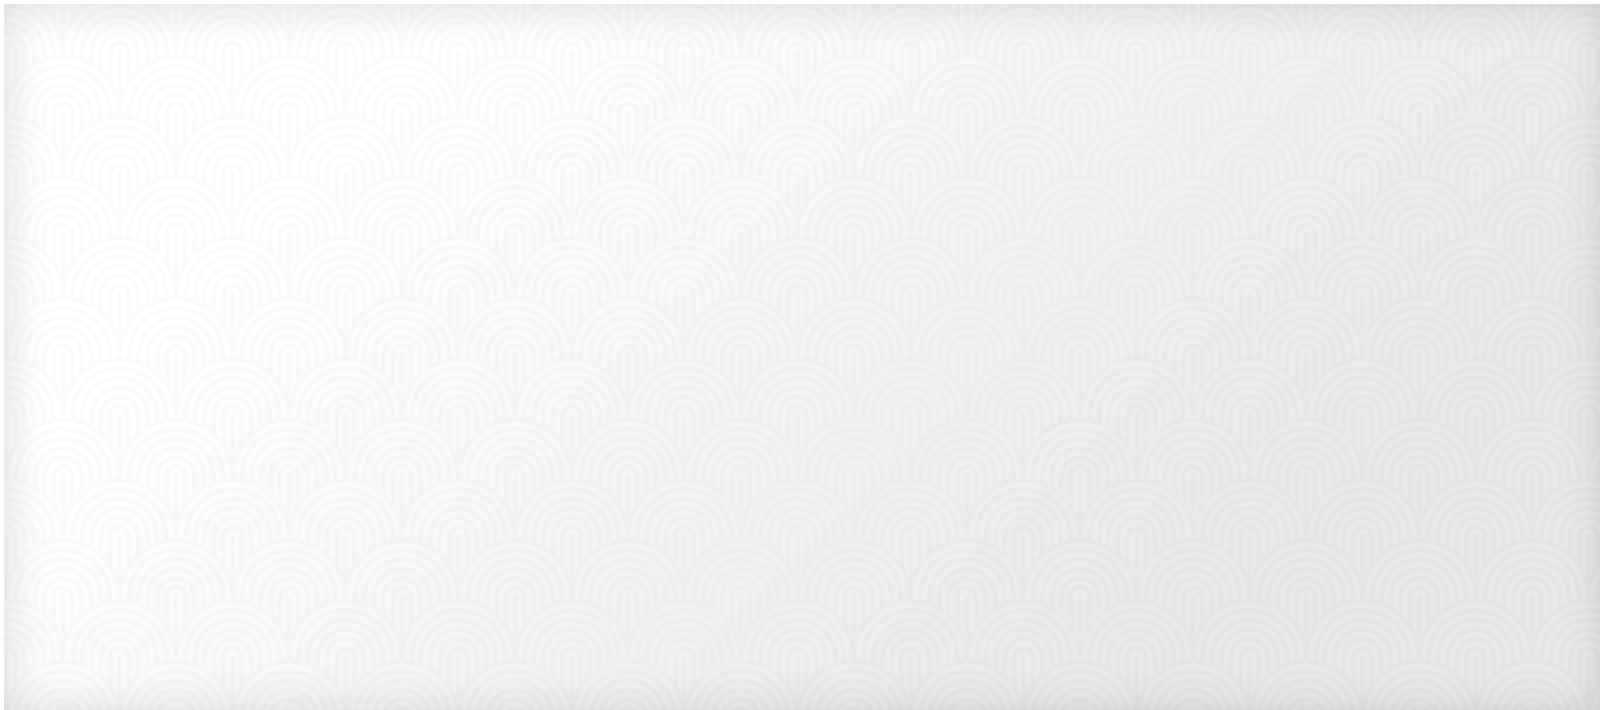
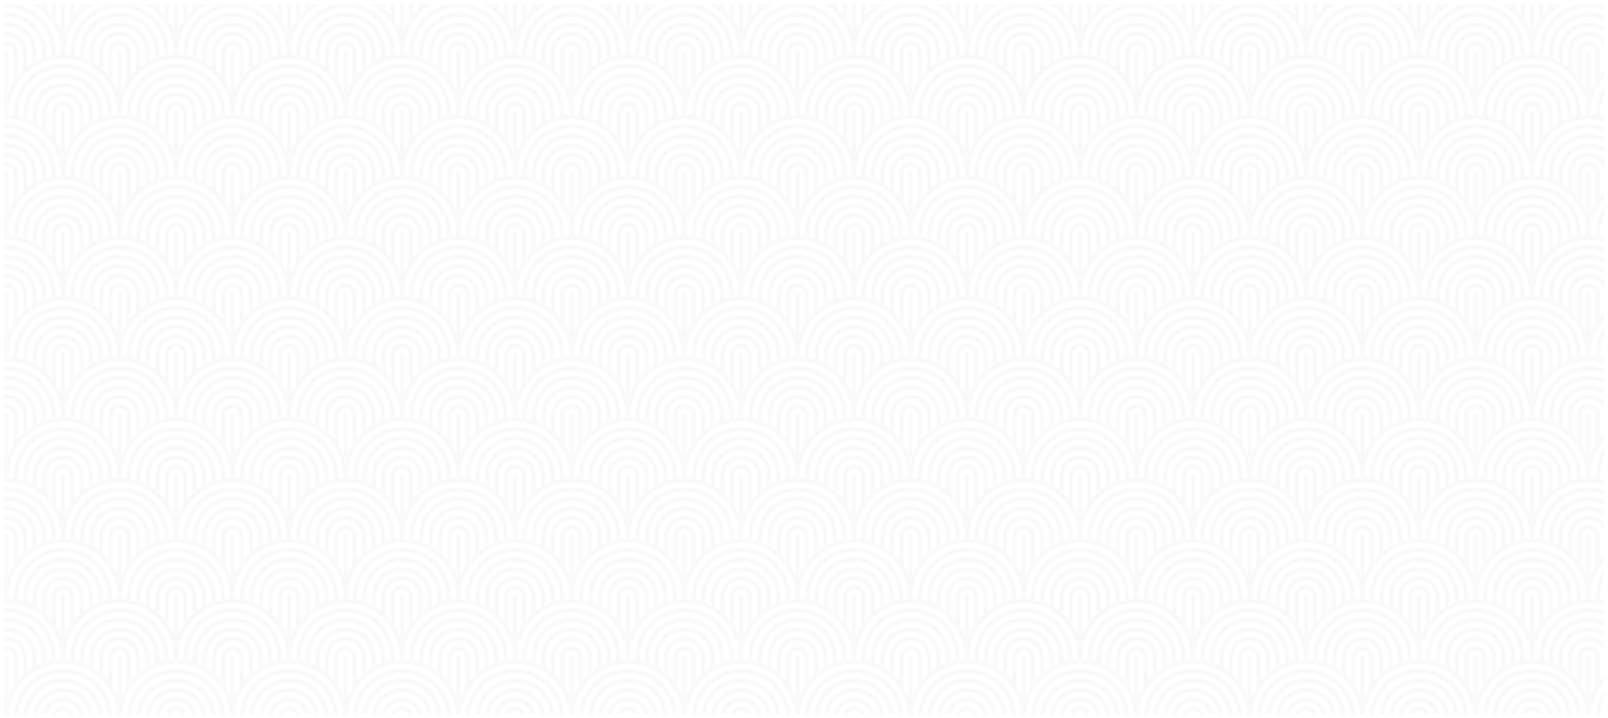
Section reservations

Changed region(s): [[0.125, 0.0, 1.0, 1.0], [0.0, 0.9915, 0.0312, 1.0]]

diff --git a/styles.css b/styles.css
@@ -77,3 +77,146 @@ body {
   float: right;
 }
 
+#reservations {
+  background-color: #f3f5f5;
+  background-image: url("images/bg_reservations.png");
+  height: 718px;
+}
+
+#reservations .container{
+  display: flex;
+  width: 1263px;
+  margin: auto;
+  flex-direction: row;
+  justify-content: space-between;
+}
+
+#reservations .image1{
+  padding-top: 100px;
+  padding-left: 47px;
+}
+
+#reservations .image2{
+  padding-top: 100px;
+  padding-left: 29px;
+}
+
+#reservations .text-header {
+  font-family: 'YesevaOne', serif;
+  font-size: 36px;
+  color: #cc9900;
+}
+
+#reservations .text-description {
+  font-family: 'Lato', serif;
+  font-size: 16px;
+  color: #4c4c4c;
+  line-height: 1.5;
+  display: inline-block;
+}
+
+#reservations .text-description-bottom {
+  font-family: 'Lato', serif;
+  font-size: 16px;
+  color: #4c4c4c;
+  line-height: 1.5;
+  display: inline-block;
+  padding-top: 10px;
+}
+
+#reservations .divider {
+  margin-left: -2px;
+  margin-top: 13px;
+  margin-bottom: 23px;
+}
+
+#reservations .content-box {
+  width: 436px;
+  text-align: center;
+  padding-top: 97px;
+  padding-right: 114px;
+  padding-left: 96px;
+}
+
+#reservations .label{
+  font-family: 'OpenSans-Bold', serif;
+  font-size: 14px;
+  color: #c9a131;
+}
+
+#reservations .left-inputs{
+  text-align: left;
+  display: flex;
+  flex-direction: column;
+  height: 175px;
+}
+
+#reservations .input{
+  font-family: 'OpenSans-Regular', serif;
+  font-style: italic;
+  font-size: 16px;
+  color: #7c7c7c;
+  width: 189px;
+  background: rgba(255, 255, 255, 0.45);
+  margin-top: 7px;
+  border: 1px solid #c9c9c9;
+  height: 31px;
+  padding-left: 7px;
+  word-spacing: -2px;
+}
+
+#reservations .right-inputs{
+  text-align: left;
+  display: flex;
+  flex-direction: column;
+  height: 175px;
+  margin-right: 6px;
+}
+
+#reservations .inputs{
+  display: flex;
+  width: 436px;
+  flex-direction: row;
+  justify-content: space-between;
+  margin-top: 37px;
+  margin-left: 3px;
+  height: 178px;
+}
+
+#reservations .input:focus {
+  border: 1px solid #c9a131;
+  outline: none;
+}
+
+#reservations .button{
+  border: 1px solid #c9a131;
+  background-color: #c9a131;
+  color: white;
+  font-family: 'OpenSans-Regular', serif;
+  font-size: 16px;
+  width: 200px;
+  margin-left: 4px;
+  height: 36px;
+}
+
+#reservations #date-label{
+  margin-top: 24px;
+  margin-bottom: -2px;
+}
+
+#reservations #email{
+  margin-top: 7px;
+}
+
+#reservations #party-label{
+  margin-top: 24px;
+}
+
+#reservations #party-number{
+  margin-top: 5px;
+  background: rgba(255, 255, 255, 0.45) url("images/icon_arrow.png")  177px 14px no-repeat;
+}
+
+#reservations #date{
+  background: rgba(255, 255, 255, 0.45) url("images/icon_date.png") 175px 8px no-repeat;
+}

diff --git a/index.html b/index.html
@@ -29,7 +29,47 @@
 <section id="ingredients"></section>
 <section id="menu"></section>
 <section id="reviews"></section>
-<section id="reservations"></section>
+<section id="reservations">
+  <div class="container">
+    <div class="image1">
+      <img src="images/reservations2.png" alt="">
+    </div>
+    <div class="image2">
+      <img src="images/reservations1.png" alt="">
+    </div>
+    <div class="content-box">
+      <span class="text-header">
+        Just the right food
+      </span>
+      <div class="divider"><img src="images/divider.png" alt=""></div>
+      <span class="text-description">
+        If you’ve been to one of our restaurants, you’ve seen – and tasted – what keeps our customers coming back for more.<br>Perfect materials and freshly baked food.
+      </span>
+      <span class="text-description-bottom">
+        Delicious Lambda cakes,&nbsp muffins, and gourmet coffees make us hard to resist! Stop in today and check us out! Perfect materials and freshly baked food.
+      </span>
+      <form class="inputs-button">
+        <div class="inputs">
+          <div class="left-inputs">
+            <label id="name-label" for="name" class="label">Name</label>
+            <input type="text" class = "input" id="name" placeholder="  your name *" required>
+            <label id="date-label" for="date" class="label">Date</label>
+            <input type="text" class = "input" id="date" placeholder="  date *" required>
+          </div>
+          <div class="right-inputs">
+            <label id="email-label" for="email" class="label">Name</label>
+            <input type="text" class = "input" id="email" placeholder="  your email *" required>
+            <label id="party-label" for="party-number" class="label">Party number</label>
+            <input type="text" class = "input" id="party-number" placeholder="  party number" required>
+          </div>
+        </div>
+        <div>
+          <input type="submit" class="button" value="Book now!">
+        </div>
+      </form>
+    </div>
+  </div>
+</section>
 <footer></footer>
 </body>
 </html>
